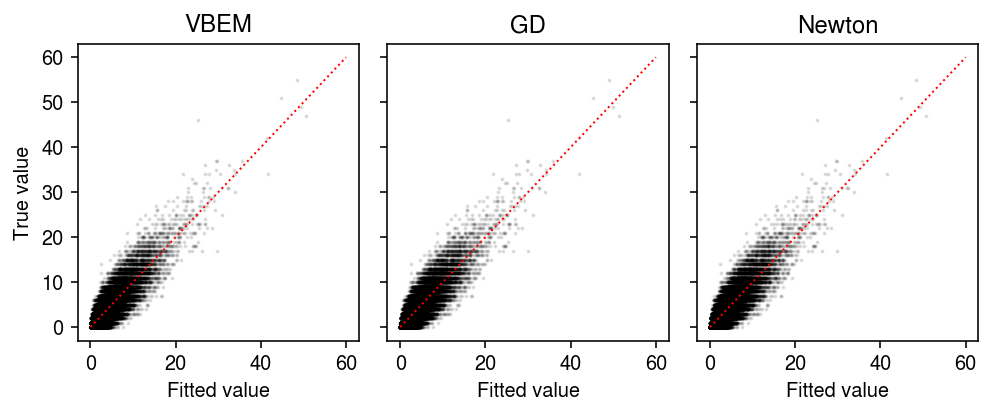
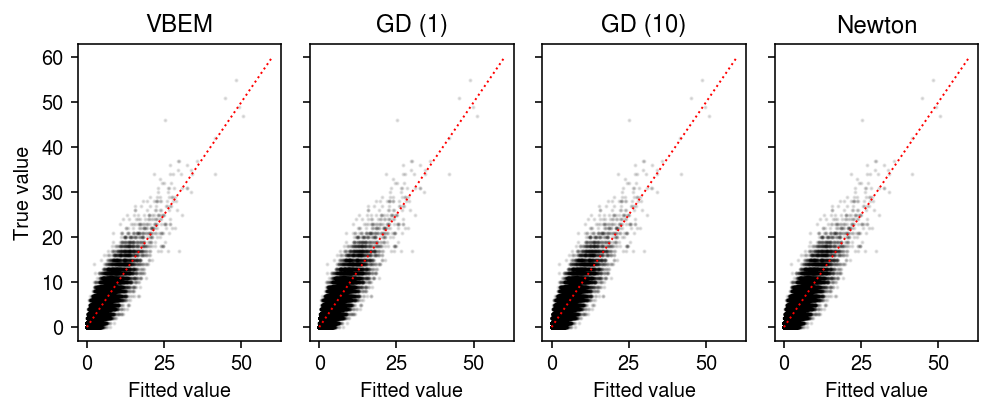
Implement multiple samples for HPMF stochastic gradient estimation

diff --git a/docs/hpmf.html b/docs/hpmf.html
@@ -1,7 +1,7 @@
 <!DOCTYPE html>
 <html lang="en">
 <head>
-<!-- 2021-07-01 Thu 14:56 -->
+<!-- 2021-07-01 Thu 16:32 -->
 <meta charset="utf-8">
 <meta name="viewport" content="width=device-width, initial-scale=1">
 <title>Hierarchical PMF</title>
@@ -659,24 +659,25 @@ bounds are the same.
     <span class="org-keyword">self</span>.a_f = torch.nn.Parameter(torch.ones([1, k]))
     <span class="org-keyword">self</span>.b_f = torch.nn.Parameter(torch.ones([1, k]))
 
-  <span class="org-keyword">def</span> <span class="org-function-name">forward</span>(<span class="org-keyword">self</span>, x):
+  <span class="org-keyword">def</span> <span class="org-function-name">forward</span>(<span class="org-keyword">self</span>, x, n_samples):
     <span class="org-variable-name">q_l</span> = torch.distributions.Gamma(<span class="org-keyword">self</span>.alpha_l, <span class="org-keyword">self</span>.beta_l)
     <span class="org-variable-name">q_f</span> = torch.distributions.Gamma(<span class="org-keyword">self</span>.alpha_f, <span class="org-keyword">self</span>.beta_f)
     <span class="org-variable-name">kl_l</span> = torch.distributions.kl.kl_divergence(q_l, torch.distributions.Gamma(<span class="org-keyword">self</span>.a_l, <span class="org-keyword">self</span>.b_l)).<span class="org-builtin">sum</span>()
     <span class="org-variable-name">kl_f</span> = torch.distributions.kl.kl_divergence(q_f, torch.distributions.Gamma(<span class="org-keyword">self</span>.a_f, <span class="org-keyword">self</span>.b_f)).<span class="org-builtin">sum</span>()
-    <span class="org-comment-delimiter"># </span><span class="org-comment">TODO: multiple samples?</span>
-    <span class="org-variable-name">l</span> = q_l.rsample()
-    <span class="org-variable-name">f</span> = q_f.rsample()
-    <span class="org-variable-name">err</span> = torch.distributions.Poisson(l @ f.T).log_prob(x).<span class="org-builtin">sum</span>()
+    <span class="org-variable-name">l</span> = q_l.rsample(n_samples)
+    <span class="org-variable-name">f</span> = q_f.rsample(n_samples)
+    <span class="org-variable-name">lam</span> = torch.einsum(<span class="org-string">'lik,ljk-&gt;lij'</span>, l, f)
+    <span class="org-variable-name">err</span> = torch.distributions.Poisson(lam).log_prob(x.unsqueeze(0)).mean(dim=0).<span class="org-builtin">sum</span>()
     <span class="org-variable-name">elbo</span> = err - kl_l - kl_f
     <span class="org-keyword">return</span> -elbo
 
-  <span class="org-keyword">def</span> <span class="org-function-name">fit</span>(<span class="org-keyword">self</span>, x, num_epochs, **kwargs):
+  <span class="org-keyword">def</span> <span class="org-function-name">fit</span>(<span class="org-keyword">self</span>, x, num_epochs, n_samples=1, **kwargs):
     <span class="org-keyword">self</span>.trace = []
+    <span class="org-variable-name">n_samples</span> = torch.Size([n_samples])
     <span class="org-variable-name">opt</span> = torch.optim.Adam(<span class="org-keyword">self</span>.parameters(), **kwargs)
     <span class="org-keyword">for</span> i <span class="org-keyword">in</span> <span class="org-builtin">range</span>(num_epochs):
       opt.zero_grad()
-      <span class="org-variable-name">loss</span> = <span class="org-keyword">self</span>.forward(x)
+      <span class="org-variable-name">loss</span> = <span class="org-keyword">self</span>.forward(x, n_samples)
       <span class="org-keyword">self</span>.trace.append(loss.detach().cpu().numpy())
       loss.backward()
       opt.step()
@@ -736,11 +737,17 @@ models[<span class="org-string">'VBEM'</span>].load_state_dict(m0.state_dict())
 models[<span class="org-string">'VBEM'</span>].fit(xt, num_epochs=200, step=1e-3)
 
 <span class="org-comment-delimiter"># </span><span class="org-comment">Important: GD is stochastic</span>
-<span class="org-keyword">print</span>(<span class="org-string">'fitting by GD'</span>)
+<span class="org-keyword">print</span>(<span class="org-string">'fitting by GD (1)'</span>)
 torch.manual_seed(2)
-<span class="org-variable-name">models</span>[<span class="org-string">'GD'</span>] = PMFGD(n, p, K).cuda()
-models[<span class="org-string">'GD'</span>].load_state_dict(m0.state_dict())
-models[<span class="org-string">'GD'</span>].fit(xt, num_epochs=60000, lr=5e-2, eps=1e-2)
+<span class="org-variable-name">models</span>[<span class="org-string">'GD (1)'</span>] = PMFGD(n, p, K).cuda()
+models[<span class="org-string">'GD (1)'</span>].load_state_dict(m0.state_dict())
+models[<span class="org-string">'GD (1)'</span>].fit(xt, num_epochs=60000, lr=5e-2, eps=1e-2)
+
+<span class="org-keyword">print</span>(<span class="org-string">'fitting by GD (10)'</span>)
+torch.manual_seed(2)
+<span class="org-variable-name">models</span>[<span class="org-string">'GD (10)'</span>] = PMFGD(n, p, K).cuda()
+models[<span class="org-string">'GD (10)'</span>].load_state_dict(m0.state_dict())
+models[<span class="org-string">'GD (10)'</span>].fit(xt, num_epochs=60000, n_samples=10, lr=5e-2, eps=1e-2)
 
 <span class="org-keyword">print</span>(<span class="org-string">'fitting by Newton-Raphson'</span>)
 <span class="org-variable-name">models</span>[<span class="org-string">'Newton'</span>] = PMFN(n, p, K).cuda()
@@ -802,8 +809,10 @@ Report the final (approximate) ELBO.
 </div>
 
 <pre class="example">
-{'VBEM': 104990.25, 'GD': 104915.23, 'Newton': 104974.35}
-
+{'VBEM': 104990.25,
+'GD (1)': 104915.23,
+'GD (10)': 104877.33,
+'Newton': 104974.35}
 </pre>
 
 <p>
@@ -812,7 +821,7 @@ Compare the fitted values of each approach to the observed values.
 
 <div class="org-src-container">
 <pre class="src src-ipython">plt.clf()
-<span class="org-variable-name">fig</span>, <span class="org-variable-name">ax</span> = plt.subplots(1, 3, sharey=<span class="org-constant">True</span>)
+<span class="org-variable-name">fig</span>, <span class="org-variable-name">ax</span> = plt.subplots(1, 4, sharey=<span class="org-constant">True</span>)
 fig.set_size_inches(7, 3)
 
 <span class="org-keyword">for</span> a, name <span class="org-keyword">in</span> <span class="org-builtin">zip</span>(ax, models):
@@ -842,8 +851,8 @@ Compare the estimated factors to the ground truth.
 
 <div class="org-src-container">
 <pre class="src src-ipython">plt.clf()
-<span class="org-variable-name">fig</span>, <span class="org-variable-name">ax</span> = plt.subplots(3, 3, sharey=<span class="org-constant">True</span>, sharex=<span class="org-constant">True</span>)
-fig.set_size_inches(6, 6)
+<span class="org-variable-name">fig</span>, <span class="org-variable-name">ax</span> = plt.subplots(4, 3, sharex=<span class="org-constant">True</span>, sharey=<span class="org-constant">True</span>)
+fig.set_size_inches(6, 8)
 <span class="org-keyword">for</span> i, (row, name) <span class="org-keyword">in</span> <span class="org-builtin">enumerate</span>(<span class="org-builtin">zip</span>(ax, models)):
   <span class="org-keyword">with</span> torch.no_grad():
     <span class="org-variable-name">pm</span> = (models[name].alpha_f / models[name].beta_f).cpu().numpy()
@@ -851,9 +860,9 @@ fig.set_size_inches(6, 6)
   <span class="org-keyword">for</span> k, a <span class="org-keyword">in</span> <span class="org-builtin">enumerate</span>(row):
     a.scatter(pm[:,order[k]], f[:,k], s=1, c=<span class="org-string">'k'</span>, alpha=0.1)
     a.set_title(name)
-  row[0].set_ylabel(f<span class="org-string">'True factor {i+1}'</span>)
-<span class="org-keyword">for</span> a <span class="org-keyword">in</span> ax.T:
-  a[-1].set_xlabel(<span class="org-string">'Estimated factor'</span>)
+  row[0].set_ylabel(f<span class="org-string">'True factor'</span>)
+<span class="org-keyword">for</span> k, a <span class="org-keyword">in</span> <span class="org-builtin">enumerate</span>(ax.T):
+  a[-1].set_xlabel(f<span class="org-string">'Estimated factor {k + 1}'</span>)
 fig.tight_layout()
 </pre>
 </div>
@@ -1044,7 +1053,7 @@ fig.tight_layout()
 </div>
 <div id="postamble" class="status">
 <p class="author">Author: Abhishek Sarkar</p>
-<p class="date">Created: 2021-07-01 Thu 14:56</p>
+<p class="date">Created: 2021-07-01 Thu 16:32</p>
 <p class="validation"><a href="http://validator.w3.org/check?uri=referer">Validate</a></p>
 </div>
 </body>
